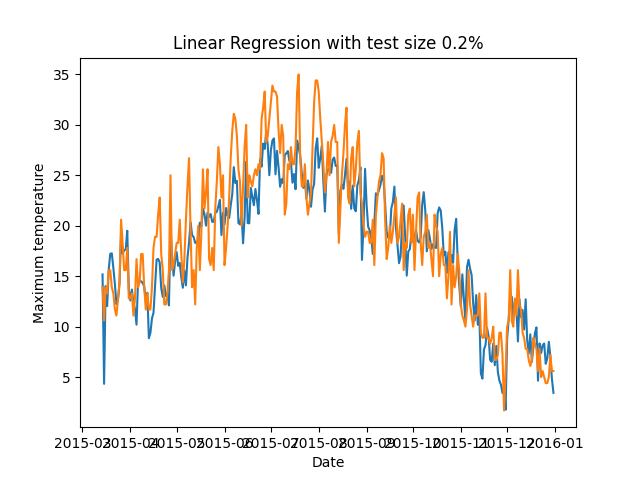
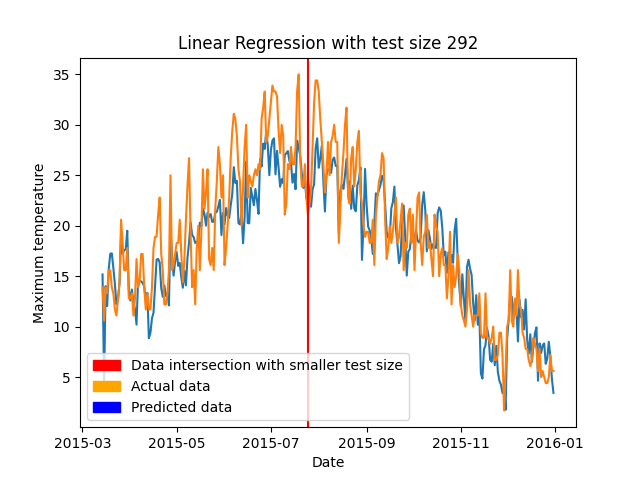
updated graphs

diff --git a/main.py b/main.py
@@ -2,6 +2,8 @@ import datetime
 from enum import Enum
 
 import matplotlib.pyplot as plt
+import matplotlib.dates as mdates
+import matplotlib.patches as mpatches
 import numpy as np
 import pandas as pd
 import seaborn
@@ -29,13 +31,7 @@ def dataframe_add_months_years(dataframe: pd.DataFrame) -> pd.DataFrame:
     # adds month and year columns to the dataframe.
     # data frame should have a column date of type datetime
 
-    months = []
-    years = []
-    for date in dataframe['date']:
-        months.append(int(date.month))
-        years.append(int(date.year))
-
-    return dataframe.assign(month=months, year=years)
+    return dataframe.assign(month=dataframe['date'].dt.month, year=dataframe['date'].dt.year)
 
 
 def dataset_info(dataframe: pd.DataFrame):
@@ -64,24 +60,44 @@ def temp_max_histplot(dataframe: pd.DataFrame):
     plt.show()
 
 
-def temp_max_facegrid_lineplot(dataframe: pd.DataFrame):
-    # pritns 4 lineplots for the maximum temperature
+def rotate_and_skip_ticks(g):
+    for ax in g.axes.flat:
+        labels = ax.get_xticklabels()  # get x labels
+        for i, l in enumerate(labels):
+            if i % 2 == 0:
+                labels[i] = ''  # skip even labels
+        ax.set_xticks(range(len(labels)))
+        ax.set_xticklabels(labels, rotation=30)  # set new labels
 
-    dataframe = dataframe_add_months_years(dataframe)
+
+def temp_max_facegrid_lineplot(dataframe: pd.DataFrame):
+    # prints 4 line plots for the maximum temperature
+    dataframe['month_str'] = dataframe['date'].dt.strftime("%b")  # set month to its abbreviated name
 
     g = seaborn.FacetGrid(dataframe, col='year', col_wrap=4)
-    g.map(seaborn.lineplot, 'month', 'temp_max')
+    g.map(seaborn.lineplot, 'month_str', 'temp_max')
+
+    g.fig.subplots_adjust(top=0.8)  # adjust the Figure in rp
+    g.fig.suptitle('Maximum temperature distribution by year')
+
+    rotate_and_skip_ticks(g)
 
     plt.show()
 
 
 def precipitation_facegrid_scatterplot(dataframe: pd.DataFrame):
-    # pritns 4 scatterplots for precicitations
+    # prints 4 scatter plots for precipitations
+    dataframe['month_str'] = dataframe['date'].dt.strftime("%b")  # set month to its abbreviated name
 
-    dataframe = dataframe_add_months_years(dataframe)
+    plt.title("Precipitation distribution")
 
     g = seaborn.FacetGrid(dataframe, col='year', col_wrap=4)
-    g.map(seaborn.scatterplot, 'month', 'precipitation')
+    g.map(seaborn.scatterplot, 'month_str', 'precipitation', )
+
+    g.fig.subplots_adjust(top=0.8)  # adjust the Figure in rp
+    g.fig.suptitle('Precipitation distribution by year')
+
+    rotate_and_skip_ticks(g)
 
     plt.show()
 
@@ -90,6 +106,7 @@ def weather_countplot(dataframe: pd.DataFrame):
     # prints a bar plot that shows how many of each weather types have been recorded
 
     seaborn.countplot(dataframe, x='weather')
+    plt.title("Weather distribution")
     plt.show()
 
 
@@ -122,6 +139,14 @@ def lr_predictor_with_split(dataframe: pd.DataFrame, test_size=0.2, no_plot=Fals
     if no_plot:
         return
 
+    test_size = int(test_size * len(dataframe.index))
+    train_size = len(dataframe.index) - test_size
+    random_split_size = int(0.11 * len(dataframe.index))
+
+    random_split_first_date = dataframe.iloc[test_size - random_split_size + train_size]['date']
+    print(random_split_first_date)
+
+
     y_predicted = np.array(predictions)
     y_actual = np.array(y_test)
     date = np.array(X_test['date'])
@@ -129,7 +154,23 @@ def lr_predictor_with_split(dataframe: pd.DataFrame, test_size=0.2, no_plot=Fals
     plt.plot(date, y_predicted)
     plt.plot(date, y_actual)
 
-    plt.title(f"Linear Regression with test size {test_size}%")
+    orange_patch = mpatches.Patch(color='orange', label='Actual data')
+    blue_patch = mpatches.Patch(color='blue', label='Predicted data')
+
+    if test_size > random_split_size:
+        plt.axvline(random_split_first_date, color='r')
+        red_patch = mpatches.Patch(color='red', label='Data intersection with smaller test size')
+        plt.legend(handles=[red_patch, orange_patch, blue_patch])
+    else:
+        plt.legend(handles=[orange_patch, blue_patch])
+
+    locator = mdates.AutoDateLocator(minticks=5, maxticks=10)
+    formatter = mdates.AutoDateFormatter(locator)
+
+    plt.gca().xaxis.set_major_locator(locator)
+    plt.gca().xaxis.set_major_formatter(formatter)
+
+    plt.title(f"Linear Regression with test size {int(test_size)}")
     plt.xlabel("Date")
     plt.ylabel("Maximum temperature")
 
@@ -168,10 +209,17 @@ def svr_predictor_default_split(dataframe: pd.DataFrame):
     y_actual = np.array(y_test)
     date = np.array(X_test['date'])
 
+    locator = mdates.AutoDateLocator(minticks=5, maxticks=10)
+    formatter = mdates.AutoDateFormatter(locator)
+
+    plt.gca().xaxis.set_major_locator(locator)
+    plt.gca().xaxis.set_major_formatter(formatter)
+
     plt.plot(date, y_predicted)
     plt.plot(date, y_actual)
     plt.xlabel("Date")
     plt.ylabel("Minimum temperature")
+    plt.title("LinearSVR for minimum temperature")
 
     plt.show()
 

diff --git a/INVESTIGATION.md b/INVESTIGATION.md
@@ -61,28 +61,33 @@ Most common weather:
 
 
 ## 2. Max temp plot
-![img.png](images/temp_max.png)
+![img.png](images/max_temp_plot.png)
 
 Maximum temperatures indicate a moderate climate
 
 ## 3. FaceGrid max_temp
-![img.png](images/tamp_max_facetgrid.png)
+![img.png](images/max_temp_distr.png)
+
 
 An increase in maximum temperature can be observed from year to year.
 
 ## 4. Facegrid precipiation
-![img.png](images/precip_scatterplot.png)
+![img.png](images/precip_distr.png)
 
 ## 5. Weather countplot
-![img.png](images/weather_countplot.png)
+![img.png](images/weather_distr.png)
+
+
 ## 6. Weather piechart
 ![img.png](images/weather_piechart.png)
+
 
 
 # Predictions!!
 
 ## 1. Linear Regression with 80/20 split
 ![img.png](images/lr_default.png)
+
 
 blue line - prediction
 
@@ -105,7 +110,7 @@ Coeff:
 MSE: 11.297832171916616
 
 ## 2. Linear Regression with 1300 train units and 160 test
-![img.png](images/lr_random.png)
+![img.png](images/lr_custom.png)
 
 blue line - prediction
 
@@ -128,7 +133,8 @@ MSE: 9.570734696689296
 
 
 ## 3. SVR with 80/20 split for temp_min
-![img.png](images/svr_min_temp_default_split.png)
+![img.png](images/linearSVR_default.png)
+
 
 blue line - prediction
 
